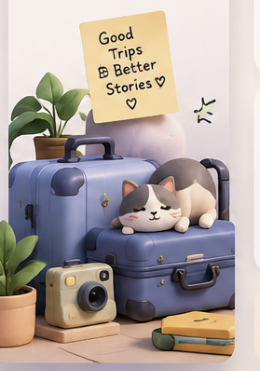
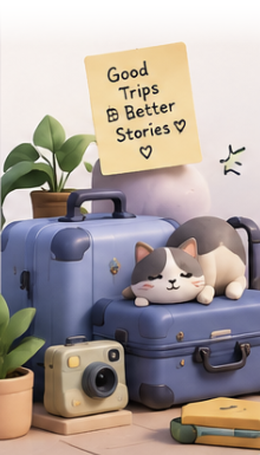
fix(sidebar): eliminate awkward border cut and gaps with seamless feathered illustration and exact background color

diff --git a/src/components/Sidebar.jsx b/src/components/Sidebar.jsx
@@ -24,15 +24,15 @@ export default function Sidebar({
   ];
 
   return (
-    <aside className="w-[260px] bg-[#FAF8F5] border-r border-[#ECE6DC] flex flex-col justify-between shrink-0 min-h-screen select-none overflow-hidden">
+    <aside className="w-[260px] bg-[#F6F1EF] border-r border-[#E8DFD7] sticky top-0 h-screen flex flex-col justify-between shrink-0 select-none overflow-y-auto scrollbar-none">
       
       {/* Top Header & Navigation */}
       <div className="flex flex-col">
         
         {/* Brand Header */}
-        <div className="pt-6 pb-4 px-4 flex flex-col items-center text-center">
+        <div className="pt-6 pb-3 px-4 flex flex-col items-center text-center">
           {/* 3D Pastel Suitcase Logo */}
-          <div className="w-20 h-14 flex items-center justify-center">
+          <div className="w-20 h-13 flex items-center justify-center">
             <img 
               src="/assets/sidebar_logo_suitcase.png" 
               alt="CheckMate 3D Suitcase"
@@ -50,7 +50,7 @@ export default function Sidebar({
         </div>
 
         {/* Navigation Menu List */}
-        <nav className="space-y-1.5 px-3 mt-3">
+        <nav className="space-y-1.5 px-3 mt-2">
           {navItems.map((item) => {
             const Icon = item.icon;
             const isActive = activeNav === item.id;
@@ -59,10 +59,10 @@ export default function Sidebar({
               <button
                 key={item.id}
                 onClick={() => onSelectNav?.(item.id)}
-                className={`w-full flex items-center gap-3.5 px-4 py-3 rounded-2xl text-xs font-extrabold transition-all duration-150 cursor-pointer ${
+                className={`w-full flex items-center gap-3.5 px-4 py-2.5 rounded-2xl text-xs font-extrabold transition-all duration-150 cursor-pointer ${
                   isActive
                     ? 'bg-[#EBE6FA] text-[#5B21B6] shadow-xs'
-                    : 'text-[#18113C] hover:bg-[#F3EFE8] hover:text-[#18113C]'
+                    : 'text-[#18113C] hover:bg-[#EFE9E4] hover:text-[#18113C]'
                 }`}
               >
                 <Icon 
@@ -79,8 +79,8 @@ export default function Sidebar({
 
       </div>
 
-      {/* Bottom Adorable 3D Illustration (Cat on Suitcases with Sticky Note) */}
-      <div className="mt-auto relative w-full overflow-hidden select-none pointer-events-none">
+      {/* Bottom Adorable 3D Illustration (Seamlessly anchored at the bottom edge) */}
+      <div className="mt-auto relative w-full overflow-hidden select-none pointer-events-none -mb-1">
         <img
           src="/assets/sidebar_cat_decor.png"
           alt="Good Trips, Better Stories"
